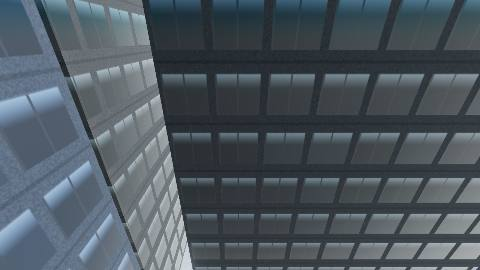
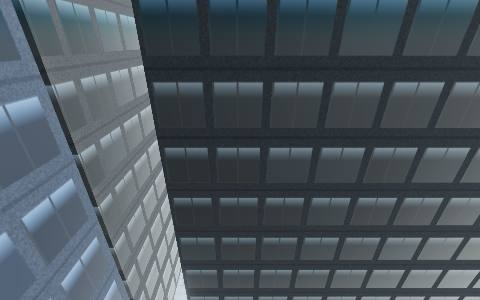
Meridian and Medieval Village: in-studio edits
Changes made through the studio's Ask panel: Meridian cars explode on a
hard crash (with Driving tweaks for it) and some buildings are painted
red; small Medieval Village city tweaks; refreshed thumbnails.

diff --git a/games/meridian-city/vehicles.js b/games/meridian-city/vehicles.js
@@ -84,6 +84,14 @@ export class Vehicles {
     this.rainbow = [229, 211].map((k) => this.list[k]).filter(Boolean);
     this.rainbowT = 0;
     this.tmpColor = c;
+    // crash explosion effects
+    this.fx = [];
+    this.wrecks = [];
+    this.fxGroup = new THREE.Group();
+    this.puffGeo = new THREE.IcosahedronGeometry(1, 1);
+    this.chunkGeo = new THREE.BoxGeometry(0.5, 0.18, 0.4);
+    this.debrisMat = new THREE.MeshStandardMaterial({ color: 0x1e1c1a, roughness: 0.8, metalness: 0.3 });
+    scene.add(this.fxGroup);
     for (const m of [this.body, this.detail, this.lights]) {
       m.frustumCulled = false;
       m.instanceMatrix.setUsage(THREE.DynamicDrawUsage);
@@ -252,6 +260,7 @@ export class Vehicles {
       v.vx = fx * v.speed;
       v.vz = fz * v.speed;
     }
+    this.updateFx(dt);
     for (const v of this.list) if (v.mode !== 'parked' || v.dirty) this.writeMatrix(v);
     this.body.instanceMatrix.needsUpdate = true;
     this.detail.instanceMatrix.needsUpdate = true;
@@ -259,6 +268,7 @@ export class Vehicles {
     if (this.rainbow.length) {
       this.rainbowT += dt;
       for (const v of this.rainbow) {
+        if (v.wrecked) continue;
         v.color = `#${this.tmpColor.setHSL((this.rainbowT * 0.3 + v.k * 0.13) % 1, 0.9, 0.55).getHexString()}`;
         this.body.setColorAt(v.k, this.tmpColor);
       }
@@ -274,13 +284,132 @@ export class Vehicles {
     d.updateMatrix();
     this.body.setMatrixAt(v.k, d.matrix);
     this.detail.setMatrixAt(v.k, d.matrix);
+    if (v.wrecked) d.scale.setScalar(0), d.updateMatrix(); // burnt out: no head/tail lights
     this.lights.setMatrixAt(v.k, d.matrix);
     v.dirty = false;
+  }
+
+  // ---------- crash explosions ----------
+  explode(v) {
+    const R = Math.random; // visual only, so it doesn't need the seeded world RNG
+    v.wrecked = true;
+    v.mode = 'parked';
+    v.vx = v.vz = v.speed = 0;
+    v.color = '#1c1a19';
+    this.body.setColorAt(v.k, this.tmpColor.set(v.color));
+    this.body.instanceColor.needsUpdate = true;
+    v.hop = { vy: 7.5, y0: v.y };
+    v.roll = (R() - 0.5) * 0.16;
+    v.pitch = (R() - 0.5) * 0.1;
+    v.burn = 12;
+    v.emit = 0;
+    v.dirty = true;
+    this.wrecks.push(v);
+    const y = v.y + 1;
+    for (let i = 0; i < 8; i++) {
+      this.puff('fire', v.x + (R() - 0.5) * 3, y + R() * 1.4, v.z + (R() - 0.5) * 3, { life: 0.45 + R() * 0.5, size: 2.4 + R() * 2.4, delay: R() * 0.12, vy: 1 + R() * 2 });
+    }
+    for (let i = 0; i < 14; i++) {
+      const a = R() * Math.PI * 2;
+      this.puff('smoke', v.x + Math.cos(a) * 1.5, y + R(), v.z + Math.sin(a) * 1.5, {
+        life: 3 + R() * 3, size: 1.8 + R() * 2, delay: 0.08 + R() * 0.5, vx: Math.cos(a) * 1.5, vy: 2 + R() * 3, vz: Math.sin(a) * 1.5,
+      });
+    }
+    for (let i = 0; i < 14; i++) {
+      const a = R() * Math.PI * 2, s = 6 + R() * 12;
+      const m = new THREE.Mesh(this.chunkGeo, this.debrisMat);
+      m.position.set(v.x, y, v.z);
+      m.scale.set(0.5 + R(), 0.5 + R() * 0.6, 0.5 + R());
+      m.castShadow = true;
+      this.fxGroup.add(m);
+      this.fx.push({ kind: 'debris', mesh: m, t: 0, life: 5 + R() * 2, vx: Math.cos(a) * s, vy: 6 + R() * 10, vz: Math.sin(a) * s, spin: (R() - 0.5) * 20, floor: v.y + 0.1, base: m.scale.clone() });
+    }
+  }
+
+  puff(kind, x, y, z, { life, size, delay = 0, vx = 0, vy = 0, vz = 0 }) {
+    const mat = kind === 'fire'
+      ? new THREE.MeshBasicMaterial({ color: 0xffd080, transparent: true, depthWrite: false, blending: THREE.AdditiveBlending, toneMapped: false })
+      : new THREE.MeshLambertMaterial({ color: 0x2a2826, transparent: true, opacity: 0, depthWrite: false });
+    const m = new THREE.Mesh(this.puffGeo, mat);
+    m.position.set(x, y, z);
+    m.visible = false;
+    m.rotation.set(Math.random() * 6, Math.random() * 6, 0);
+    this.fxGroup.add(m);
+    this.fx.push({ kind, mesh: m, mat, t: -delay, life, size, vx, vy, vz });
+  }
+
+  updateFx(dt) {
+    for (let i = this.wrecks.length - 1; i >= 0; i--) {
+      const v = this.wrecks[i];
+      if (v.hop) {
+        v.hop.vy -= 22 * dt;
+        v.y += v.hop.vy * dt;
+        if (v.y <= v.hop.y0) {
+          v.y = v.hop.y0;
+          v.hop = null;
+        }
+        v.dirty = true;
+      }
+      v.burn -= dt;
+      v.emit -= dt;
+      if (v.emit <= 0 && v.burn > 0) {
+        v.emit = 0.16;
+        const R = Math.random, k = v.burn / 12;
+        const x = v.x + (R() - 0.5) * 2, z = v.z + (R() - 0.5) * 2;
+        if (R() < 0.3 + k * 0.6) this.puff('fire', x, v.y + 1.4, z, { life: 0.35 + R() * 0.3, size: 0.7 + R() * 0.8 * (0.4 + k), vy: 2.5 });
+        this.puff('smoke', x, v.y + 1.8, z, { life: 3 + R() * 2, size: 0.9 + R() * 0.8, vx: (R() - 0.5), vy: 2.5 + R() * 1.5, vz: (R() - 0.5) });
+      }
+      if (v.burn <= 0 && !v.hop) this.wrecks.splice(i, 1);
+    }
+    for (let i = this.fx.length - 1; i >= 0; i--) {
+      const f = this.fx[i];
+      f.t += dt;
+      if (f.t < 0) continue;
+      const m = f.mesh;
+      const k = f.t / f.life;
+      if (k >= 1) {
+        this.fxGroup.remove(m);
+        f.mat?.dispose();
+        this.fx.splice(i, 1);
+        continue;
+      }
+      m.visible = true;
+      if (f.kind === 'debris') {
+        f.vy -= 22 * dt;
+        m.position.x += f.vx * dt;
+        m.position.y += f.vy * dt;
+        m.position.z += f.vz * dt;
+        if (m.position.y < f.floor) {
+          m.position.y = f.floor;
+          f.vy *= -0.3;
+          f.vx *= 0.55;
+          f.vz *= 0.55;
+          f.spin *= 0.5;
+        }
+        m.rotation.x += f.spin * dt;
+        m.rotation.z += f.spin * 0.7 * dt;
+        if (k > 0.85) m.scale.copy(f.base).multiplyScalar((1 - k) / 0.15);
+        continue;
+      }
+      m.position.x += f.vx * dt;
+      m.position.y += f.vy * dt;
+      m.position.z += f.vz * dt;
+      if (f.kind === 'fire') {
+        m.scale.setScalar(f.size * (0.35 + 0.65 * Math.sqrt(k)));
+        // white-hot core cooling through orange to deep red (values >1 feed the bloom)
+        f.mat.color.setRGB(3 * (1 - k * 0.4), 2.2 * (1 - k) ** 1.5 + 0.15, 0.9 * (1 - k) ** 3);
+        f.mat.opacity = 1 - k;
+      } else {
+        m.scale.setScalar(f.size * (0.6 + k * 1.8));
+        f.mat.opacity = 0.6 * Math.min(1, f.t * 5) * (1 - k);
+      }
+    }
   }
 
   nearest(x, z, maxD) {
     let best = null, bd = maxD;
     for (const v of this.nearby(x, z, [])) {
+      if (v.wrecked) continue;
       const d = Math.hypot(v.x - x, v.z - z) - v.hx * 0.6;
       if (d < bd) {
         bd = d;

diff --git a/games/meridian-city/game.js b/games/meridian-city/game.js
@@ -77,6 +77,12 @@ export default defineGame({
     tweaks.add('Traffic / Car speed ×', { value: 1, min: 0, max: 3, step: 0.05, onChange: (v) => (vehicles.speedScale = v) });
     tweaks.add('Traffic / Pedestrian speed ×', { value: 1, min: 0, max: 3, step: 0.05, onChange: (v) => (peds.speedScale = v) });
     tweaks.add('City / Window glow at night', { value: 0.75, min: 0, max: 3, step: 0.05, onChange: (v) => (city.glow = v) });
+    // crash explosions: a sudden velocity change this big in one frame blows the car up
+    let explodeOn = true, crashForce = 24;
+    tweaks.add('Driving / Explode on crash', { value: true, onChange: (v) => (explodeOn = v) });
+    tweaks.add('Driving / Crash force to explode', { value: 24, min: 8, max: 60, step: 1, onChange: (v) => (crashForce = v) });
+    let lastCar = null;
+    const lastV = { x: 0, z: 0 };
     tweaks.add('Cores / Beam opacity', { value: 0.55, min: 0, max: 1, step: 0.01, onChange: (v) => (cores.beamMat.opacity = v) });
     tweaks.add('Cores / Beam color', { value: '#3cf2ff', onChange: (v) => cores.beamMat.color.set(v) });
     // the default sun halo is wide enough to wash the skyline out when looking sunward
@@ -115,6 +121,24 @@ export default defineGame({
 
       update(dt, t, { player, started, mode }) {
         const walker = !started || player.driving || player.altitude > 2.5 ? null : player.pos;
+        const car = player.driving ? player.car : null;
+        if (car && car === lastCar && explodeOn && Math.hypot(car.vx - lastV.x, car.vz - lastV.z) > crashForce) {
+          player.exit(true);
+          vehicles.explode(car);
+          // blast the player clear of the wreck
+          const dx = player.pos.x - car.x, dz = player.pos.z - car.z, d = Math.hypot(dx, dz) || 1;
+          player.vel.set((dx / d) * 9, 8.5, (dz / d) * 9);
+          player.onGround = false;
+          audio.crash(40);
+          audio.noise(1.8, 160, 'lowpass', 1);
+          audio.noise(0.9, 900, 'lowpass', 0.7);
+          hud.toast('<span style="color:#ff7a3a">Wrecked!</span>');
+        }
+        lastCar = player.driving ? player.car : null;
+        if (lastCar) {
+          lastV.x = lastCar.vx;
+          lastV.z = lastCar.vz;
+        }
         vehicles.update(dt, walker);
         peds.update(dt, t);
         if (mode === 'play' && !finished) elapsed += dt;

diff --git a/games/medieval-village/city.js b/games/medieval-village/city.js
@@ -19,6 +19,8 @@ const ROOFS = ['#b5543a', '#a8482f', '#c0673f', '#9c4a33', '#b86b45', '#8f3f2c',
 const ROOFS_FLEA = ['#7d6a4c', '#8b7a55', '#6b5e48', '#945a3c', '#7a4a34'];
 const WOOD = '#8a6446';
 const PLAIN_UV = [0.02, 0.15, 0.03, 0.15, 0.03, 0.2, 0.02, 0.2];
+// Per-house wall color overrides, keyed by house index (the #id shown when selecting a house).
+const HOUSE_COLORS = { 775: '#b8352a' };
 
 export function buildCity(scene, T, grid) {
   const houses = [];
@@ -47,7 +49,8 @@ export function buildCity(scene, T, grid) {
     const nearKeep = Math.hypot(cx - KEEP.x, cz - KEEP.z) < 140;
     const stories = flea ? (rand() < 0.6 ? 1 : 2) : rand() < 0.2 ? 1 : rand() < (nearKeep ? 0.4 : 0.65) ? 2 : rand() < 0.8 ? 3 : 4;
     const top = g1 + stories * WALL_TH + 0.25;
-    const col = c3(pick(flea ? PLASTER_FLEA : PLASTER), rr(0.86, 1.04));
+    let col = c3(pick(flea ? PLASTER_FLEA : PLASTER), rr(0.86, 1.04));
+    if (HOUSE_COLORS[houses.length]) col = c3(HOUSE_COLORS[houses.length]);
     const roofCol = c3(pick(flea ? ROOFS_FLEA : ROOFS), rr(0.82, 1.08));
     const B = chunk(cx, cz);
     const wallOpts = { col, tw: WALL_TW, th: WALL_TH, uo: ri(0, 3) / 4, vo: -top / WALL_TH, top: false };

diff --git a/games/meridian-city/city.js b/games/meridian-city/city.js
@@ -17,6 +17,8 @@ const TINTS = {
   brick: ['#ffffff', '#f0cdbb', '#d69c86', '#f3dcc0', '#c9b1a6'],
   modern: ['#ffffff', '#c9cdd6', '#b5ab9b', '#a9b6c4'],
 };
+// facade colors for specific buildings, keyed by building index
+const PAINTED = { 1283: '#d23a2e', 1284: '#d23a2e' };
 const NEON = ['#ff2d6f', '#2de2ff', '#ffd02d', '#7dff4a', '#b34dff', '#ff7a1a', '#ff4df0'];
 const TREE_GREENS = ['#3f7d2c', '#4f8a33', '#2f6b2a', '#5e9a3a', '#3b6f36', '#6d8f2f'];
 const WHITE = [1, 1, 1];
@@ -64,7 +66,9 @@ export function buildCity(scene, T) {
 
   // ---------- buildings ----------
   function addBuilding(ch, x0, x1, z0, z1, h, style) {
-    const tint = c3(pick(TINTS[style]), rr(0.8, 1.06));
+    let tint = c3(pick(TINTS[style]), rr(0.8, 1.06));
+    const paint = PAINTED[buildings.length]; // index matches the build-mode "#n" id
+    if (paint) tint = c3(paint);
     const rk = rr(0.7, 1.05);
     const roofCol = [rk, rk, rk * 0.97];
     const uo = ri(0, 7) / 8;

diff --git a/games/medieval-village/game.js b/games/medieval-village/game.js
@@ -129,7 +129,7 @@ export default defineGame({
     })));
 
     // ---------- live tweaks ----------
-    tweaks.add('Dragon / Flight speed ×', { value: 1, min: 0, max: 3, step: 0.05, onChange: (v) => (dragon.speed = v) });
+    tweaks.add('Dragon / Flight speed ×', { value: 100, min: 0, max: 150, step: 0.5, onChange: (v) => (dragon.speed = v) });
     tweaks.add('Dragon / Altitude', { value: 115, min: 40, max: 300, step: 1, onChange: (v) => (dragon.alt = v) });
     tweaks.add('Dragon / Circle radius', { value: 330, min: 120, max: 800, step: 5, onChange: (v) => (dragon.radius = v) });
     tweaks.add('Dragon / Size ×', { value: 1, min: 0.3, max: 3, step: 0.05, onChange: (v) => (dragon.scale = v) });
